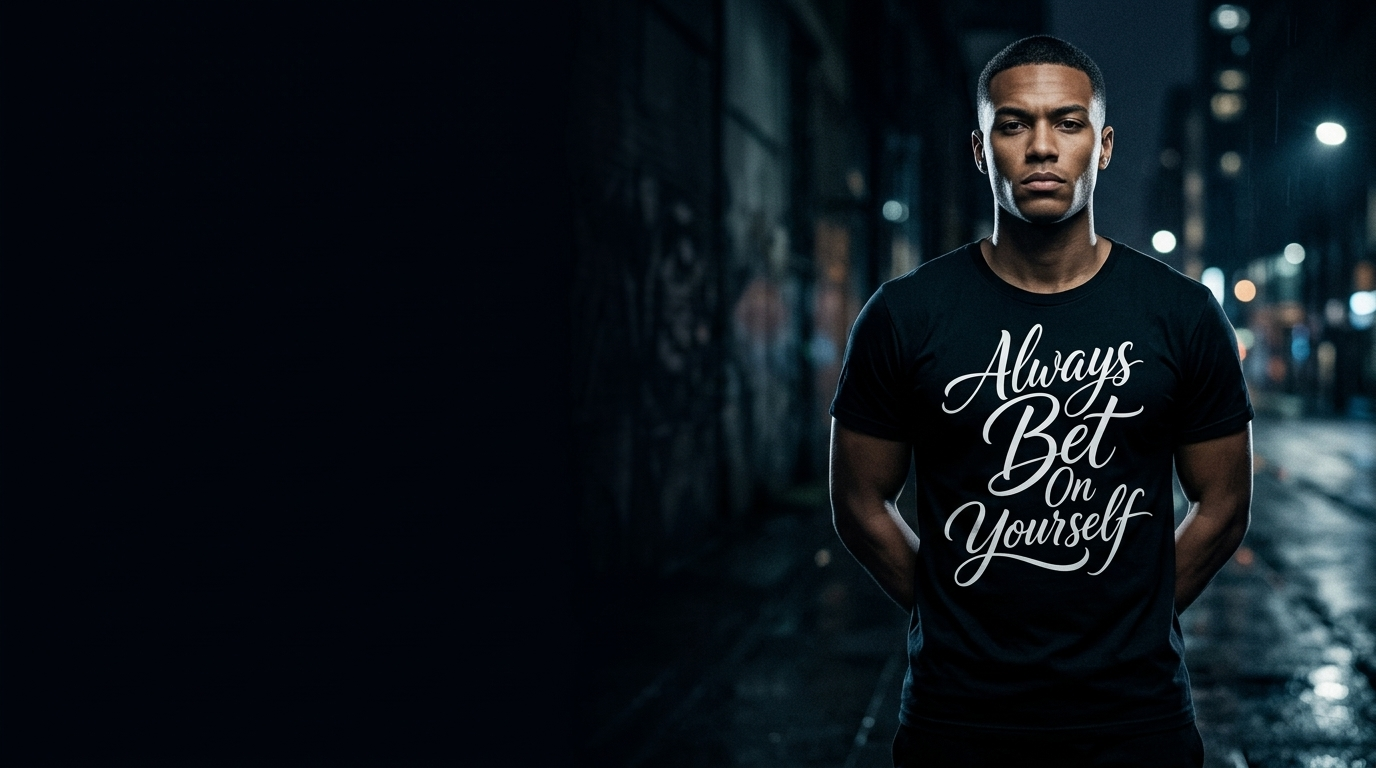
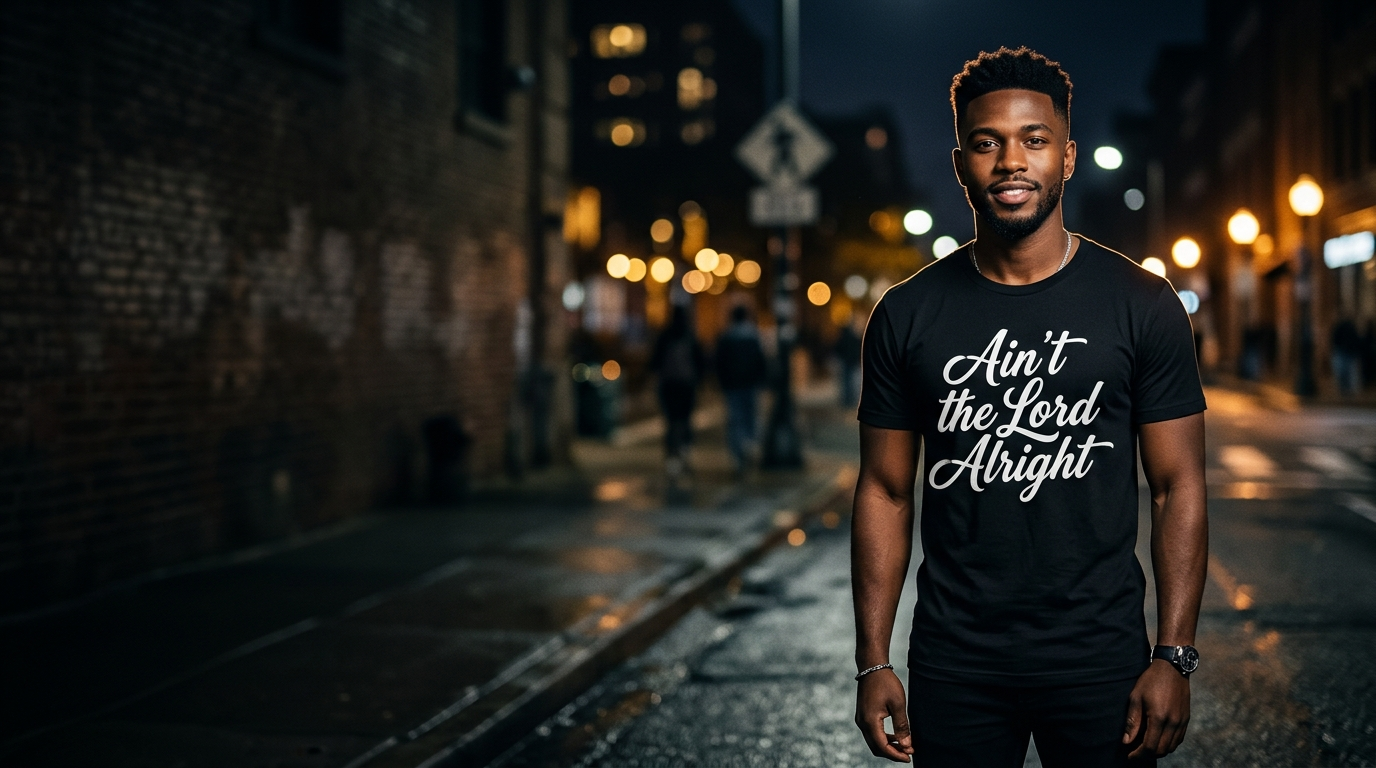
feat: add Bags category with Ain't The Lord Alright tote bag and update hero section with regenerated staple t-shirt visual

diff --git a/src/routes/admin.tsx b/src/routes/admin.tsx
@@ -18,7 +18,7 @@ function AdminDashboard() {
   const [activeTab, setActiveTab] = useState("orders");
   
   // New Product Form State
-  const [newProduct, setNewProduct] = useState({ name: "", price: "", description: "" });
+  const [newProduct, setNewProduct] = useState({ name: "", price: "", description: "", category: "T-Shirt" });
   const [imageFile, setImageFile] = useState<File | null>(null);
   const [isUploading, setIsUploading] = useState(false);
   const fileInputRef = useRef<HTMLInputElement>(null);
@@ -111,15 +111,21 @@ function AdminDashboard() {
       // 2. Add to Firestore
       await addDoc(collection(db, "products"), {
         name: newProduct.name,
+        title: newProduct.name,
         price: parseFloat(newProduct.price),
         description: newProduct.description,
+        body: newProduct.description,
         image: imageUrl,
-        colors: ["Black", "White"], // Default placeholders, could be expanded
-        sizes: ["S", "M", "L", "XL"]
+        img: imageUrl,
+        category: newProduct.category || "T-Shirt",
+        colors: newProduct.category === "Bags" ? ["Natural"] : ["Black", "White"],
+        sizes: newProduct.category === "Bags" ? ["One Size"] : ["S", "M", "L", "XL"],
+        isFeatured: true,
+        isBestSeller: false,
       });
 
       // Reset form
-      setNewProduct({ name: "", price: "", description: "" });
+      setNewProduct({ name: "", price: "", description: "", category: "T-Shirt" });
       setImageFile(null);
       if (fileInputRef.current) fileInputRef.current.value = "";
       alert("Product added successfully!");
@@ -199,23 +205,15 @@ function AdminDashboard() {
                       <td className="p-4 align-top">
                         <p className="font-semibold">{order.customer?.firstName} {order.customer?.lastName}</p>
                         <p className="text-sm text-ink/70">{order.customer?.email}</p>
-                        <p className="text-sm text-ink/70 mt-2">
-                          {order.customer?.address},<br/>
-                          {order.customer?.city}, {order.customer?.postalCode}
-                        </p>
                       </td>
-                      <td className="p-4 align-top min-w-[250px]">
-                        <div className="space-y-3">
+                      <td className="p-4 align-top">
+                        <ul className="text-sm space-y-1">
                           {order.items?.map((item: any, idx: number) => (
-                            <div key={idx} className="flex gap-3 text-sm">
-                              <img src={item.image} alt="" className="w-10 h-10 object-cover rounded bg-hairline/50" />
-                              <div>
-                                <p className="font-medium">{item.name}</p>
-                                <p className="text-ink/60">Qty: {item.quantity} | {item.color} | {item.size}</p>
-                              </div>
-                            </div>
+                            <li key={idx}>
+                              {item.quantity}x {item.name} {item.size && `(${item.size})`} {item.color && `- ${item.color}`}
+                            </li>
                           ))}
-                        </div>
+                        </ul>
                       </td>
                       <td className="p-4 align-top text-right">
                         <p className="font-mono font-bold">${order.total?.toFixed(2)}</p>
@@ -269,6 +267,18 @@ function AdminDashboard() {
                   <input required type="text" value={newProduct.name} onChange={e => setNewProduct({...newProduct, name: e.target.value})} className="w-full border border-hairline p-2 rounded bg-white" />
                 </div>
                 <div>
+                  <label className="block text-sm font-semibold mb-1">Category</label>
+                  <select 
+                    value={newProduct.category} 
+                    onChange={e => setNewProduct({...newProduct, category: e.target.value})} 
+                    className="w-full border border-hairline p-2 rounded bg-white"
+                  >
+                    <option value="T-Shirt">T-Shirt</option>
+                    <option value="Bags">Bags</option>
+                    <option value="Mug">Mug</option>
+                  </select>
+                </div>
+                <div>
                   <label className="block text-sm font-semibold mb-1">Price ($)</label>
                   <input required type="number" step="0.01" value={newProduct.price} onChange={e => setNewProduct({...newProduct, price: e.target.value})} className="w-full border border-hairline p-2 rounded bg-white" />
                 </div>
@@ -303,13 +313,16 @@ function AdminDashboard() {
               <div className="grid grid-cols-1 sm:grid-cols-2 gap-4">
                 {products.map(product => (
                   <div key={product.id} className="border border-hairline rounded p-4 flex gap-4 bg-white items-start">
-                    <img src={product.image} alt={product.name} className="w-20 h-24 object-cover bg-hairline/20 rounded" />
+                    <img src={product.image || product.img} alt={product.name || product.title} className="w-20 h-24 object-cover bg-hairline/20 rounded" />
                     <div className="flex-1">
-                      <h3 className="font-bold">{product.name}</h3>
-                      <p className="text-ink/60 text-sm mb-2">${product.price}</p>
-                      <button onClick={() => handleDeleteProduct(product.id)} className="text-red-500 text-sm flex items-center gap-1 hover:text-red-600">
-                        <Trash2 className="w-4 h-4" /> Delete
-                      </button>
+                      <h3 className="font-bold">{product.name || product.title}</h3>
+                      <p className="text-ink/60 text-sm mb-1">${product.price}</p>
+                      <span className="text-xs bg-hairline/30 px-2 py-0.5 rounded font-mono inline-block mb-2">{product.category || "T-Shirt"}</span>
+                      <div>
+                        <button onClick={() => handleDeleteProduct(product.id)} className="text-red-500 text-sm flex items-center gap-1 hover:text-red-600">
+                          <Trash2 className="w-4 h-4" /> Delete
+                        </button>
+                      </div>
                     </div>
                   </div>
                 ))}

diff --git a/src/lib/products.ts b/src/lib/products.ts
@@ -26,6 +26,8 @@ export const COLOR_HEX_MAP: Record<string, string> = {
   'Mint': '#96dcB4',
   'Coral': '#e6645a',
   'Lime': '#96d232',
+  'Natural': '#f2eee6',
+  'Marble': '#eae7e1',
 };
 
 export const getHexForColorName = (colorName: string): string => {
@@ -54,7 +56,7 @@ export type Product = {
   body: string;
   colors: (string | ProductColor)[];
   sizes: string[];
-  category: "T-Shirt" | "Mug";
+  category: "T-Shirt" | "Mug" | "Bags" | string;
   isFeatured?: boolean;
   isBestSeller?: boolean;
 };
@@ -72,6 +74,21 @@ export const INITIAL_PRODUCTS: Product[] = [
     colors: T_SHIRT_COLORS,
     sizes: ["S", "M", "L", "XL"],
     category: "T-Shirt",
+    isBestSeller: true,
+    isFeatured: true,
+  },
+  {
+    id: "aint-the-lord-alright-tote-bag",
+    img: "/products/tote-bag.jpeg",
+    alt: "Ain't the Lord Alright Tote Bag",
+    eyebrow: "100% Canvas / Heavy Duty",
+    title: "Ain't the Lord Alright Tote Bag",
+    price: 24,
+    unit: "/ per bag",
+    body: "Heavyweight premium canvas tote bag with reinforced handles, featuring the signature 'Ain't the Lord Alright' graphic print on an elegant marble textured finish.",
+    colors: ["Natural"],
+    sizes: ["One Size"],
+    category: "Bags",
     isBestSeller: true,
     isFeatured: true,
   },
@@ -117,8 +134,36 @@ export const getProducts = async (): Promise<Product[]> => {
     if (snapshot.empty) {
       return INITIAL_PRODUCTS; // Fallback for before seeding
     }
-    const products = snapshot.docs.map(doc => ({ id: doc.id, ...doc.data() } as Product));
-    return products;
+    const firestoreProducts = snapshot.docs.map(doc => ({ id: doc.id, ...doc.data() } as Product));
+
+    // Ensure any initial products (like newly added Bags) are included even if Firestore hasn't synced yet
+    const productMap = new Map<string, Product>();
+    for (const p of INITIAL_PRODUCTS) {
+      productMap.set(p.id, p);
+    }
+    for (const p of firestoreProducts) {
+      const normalized: Product = {
+        ...p,
+        img: p.img || (p as any).image,
+        title: p.title || (p as any).name,
+        body: p.body || (p as any).description,
+        category: p.category || "T-Shirt",
+        colors: p.colors || ["Natural"],
+        sizes: p.sizes || ["One Size"],
+      };
+      productMap.set(p.id, normalized);
+    }
+
+    const merged = Array.from(productMap.values());
+    // Ensure 'Ain't the Lord Alright' is the front staple product
+    merged.sort((a, b) => {
+      if (a.id === "aint-the-lord-alright") return -1;
+      if (b.id === "aint-the-lord-alright") return 1;
+      if (a.id === "aint-the-lord-alright-tote-bag") return -1;
+      if (b.id === "aint-the-lord-alright-tote-bag") return 1;
+      return 0;
+    });
+    return merged;
   } catch (error) {
     console.error("Error fetching products:", error);
     return INITIAL_PRODUCTS; // Fallback on error
@@ -130,7 +175,15 @@ export const getProductById = async (id: string): Promise<Product | undefined> =
     const docRef = doc(db, "products", id);
     const docSnap = await getDoc(docRef);
     if (docSnap.exists()) {
-      return { id: docSnap.id, ...docSnap.data() } as Product;
+      const data = docSnap.data();
+      return {
+        id: docSnap.id,
+        ...data,
+        img: data['img'] || data['image'],
+        title: data['title'] || data['name'],
+        body: data['body'] || data['description'],
+        category: data['category'] || "T-Shirt",
+      } as Product;
     }
     return INITIAL_PRODUCTS.find(p => p.id === id);
   } catch (error) {

diff --git a/src/routes/index.tsx b/src/routes/index.tsx
@@ -1,16 +1,15 @@
-import { createFileRoute, useNavigate, useLoaderData } from "@tanstack/react-router";
+import { createFileRoute, useNavigate } from "@tanstack/react-router";
 import {
   Check,
   Clock3,
   Layers,
   ShieldCheck,
-  ArrowRight,
   Star,
   CheckCircle2,
 } from "lucide-react";
 import { Reveal } from "@/components/udc/Reveal";
 import { ProductCarousel } from "@/components/udc/ProductCarousel";
-import { INITIAL_PRODUCTS, getProducts } from "@/lib/products";
+import { getProducts } from "@/lib/products";
 import {
   Carousel,
   CarouselContent,
@@ -24,20 +23,20 @@ export const Route = createFileRoute("/")({
   },
   head: () => ({
     meta: [
-      { title: "Unique Design Custom — Trendy Printed Tees & Mugs" },
+      { title: "Unique Design Custom — Trendy Printed Tees, Bags & Mugs" },
       {
         name: "description",
         content:
-          "Shop our exclusive collection of printed tees and mugs. Unique designs, premium quality, fast delivery.",
+          "Shop our exclusive collection of printed tees, tote bags, and mugs. Unique designs, premium quality, fast delivery.",
       },
       {
         property: "og:title",
-        content: "Unique Design Custom — Trendy Printed Tees & Mugs",
+        content: "Unique Design Custom — Trendy Printed Tees, Bags & Mugs",
       },
       {
         property: "og:description",
         content:
-          "Shop our exclusive collection of printed tees and mugs. Unique designs, premium quality, fast delivery.",
+          "Shop our exclusive collection of printed tees, tote bags, and mugs. Unique designs, premium quality, fast delivery.",
       },
     ],
   }),
@@ -128,7 +127,7 @@ function Index() {
               WEAR THE<br/>WORD.
             </h1>
             <p className="mt-6 max-w-md text-base leading-relaxed text-white/90 sm:text-lg">
-              Exclusive t-shirts and coffee mugs, printed with care in our shop. 
+              Exclusive t-shirts, tote bags, and coffee mugs, printed with care in our shop. 
               Browse our collection, pick your favorites, and we handle the rest.
             </p>
             <div className="mt-10 flex flex-wrap items-center gap-4">

diff --git a/src/routes/shop.tsx b/src/routes/shop.tsx
@@ -1,11 +1,10 @@
 import { createFileRoute, Link } from "@tanstack/react-router";
-import { useState, useEffect } from "react";
-import { Filter, X } from "lucide-react";
+import { useState } from "react";
+import { Filter } from "lucide-react";
 
 import { useCart } from "@/lib/CartContext";
 
-import { INITIAL_PRODUCTS, getProducts, type Product } from "@/lib/products";
-import { ProductCarousel } from "@/components/udc/ProductCarousel";
+import { getProducts, type Product } from "@/lib/products";
 import { ProductHoverSlider } from "@/components/udc/ProductHoverSlider";
 
 export const Route = createFileRoute("/shop")({
@@ -55,7 +54,7 @@ function Shop() {
     });
   };
 
-  const categories = ["All", "T-Shirt", "Mug"];
+  const categories = ["All", "T-Shirt", "Bags", "Mug"];
   const [selectedCategory, setSelectedCategory] = useState<string>("All");
   const [maxPrice, setMaxPrice] = useState<number>(100);
   const [isMobileFilterOpen, setIsMobileFilterOpen] = useState(false);
@@ -74,7 +73,7 @@ function Shop() {
         <div>
           <h1 className="text-4xl font-bold tracking-tight">Shop</h1>
           <p className="mt-2 md:mt-4 text-ink/70 max-w-2xl text-lg">
-            Browse our collection of uniquely designed tees and mugs.
+            Browse our collection of uniquely designed tees, bags, and mugs.
           </p>
         </div>
         
@@ -103,7 +102,9 @@ function Shop() {
                     onChange={() => setSelectedCategory(cat)}
                     className="accent-coral w-4 h-4"
                   />
-                  <span className="text-ink/80 group-hover:text-ink transition-colors">{cat === "All" ? "All Products" : cat + "s"}</span>
+                  <span className="text-ink/80 group-hover:text-ink transition-colors">
+                    {cat === "All" ? "All Products" : cat === "T-Shirt" ? "T-Shirts" : cat === "Mug" ? "Mugs" : cat}
+                  </span>
                 </label>
               ))}
             </div>

diff --git a/sync_firestore.ts b/sync_firestore.ts
@@ -40,6 +40,21 @@ const products = [
     isFeatured: true,
   },
   {
+    id: "aint-the-lord-alright-tote-bag",
+    img: "/products/tote-bag.jpeg",
+    alt: "Ain't the Lord Alright Tote Bag",
+    eyebrow: "100% Canvas / Heavy Duty",
+    title: "Ain't the Lord Alright Tote Bag",
+    price: 24,
+    unit: "/ per bag",
+    body: "Heavyweight premium canvas tote bag with reinforced handles, featuring the signature 'Ain't the Lord Alright' graphic print on an elegant marble textured finish.",
+    colors: ["Natural"],
+    sizes: ["One Size"],
+    category: "Bags",
+    isBestSeller: true,
+    isFeatured: true,
+  },
+  {
     id: "always-bet-on-yourself",
     img: "/products/always-bet-on-yourself/1.jpeg",
     alt: "Always Bet on Yourself T-Shirt",
@@ -53,7 +68,22 @@ const products = [
     category: "T-Shirt",
     isBestSeller: true,
     isFeatured: true,
-  }
+  },
+  {
+    id: "custom-mug",
+    img: "/products/mug.jpeg",
+    alt: "Classic ceramic coffee mug",
+    eyebrow: "11oz Ceramic / Dishwasher Safe",
+    title: "Classic Ceramic Mug",
+    price: 16,
+    unit: "/ per mug",
+    body: "Glossy white ceramic with a wrap-around exclusive print. Safe in the dishwasher and the microwave.",
+    colors: ["White"],
+    sizes: ["11oz", "15oz"],
+    category: "Mug",
+    isBestSeller: false,
+    isFeatured: true,
+  },
 ];
 
 async function sync() {
